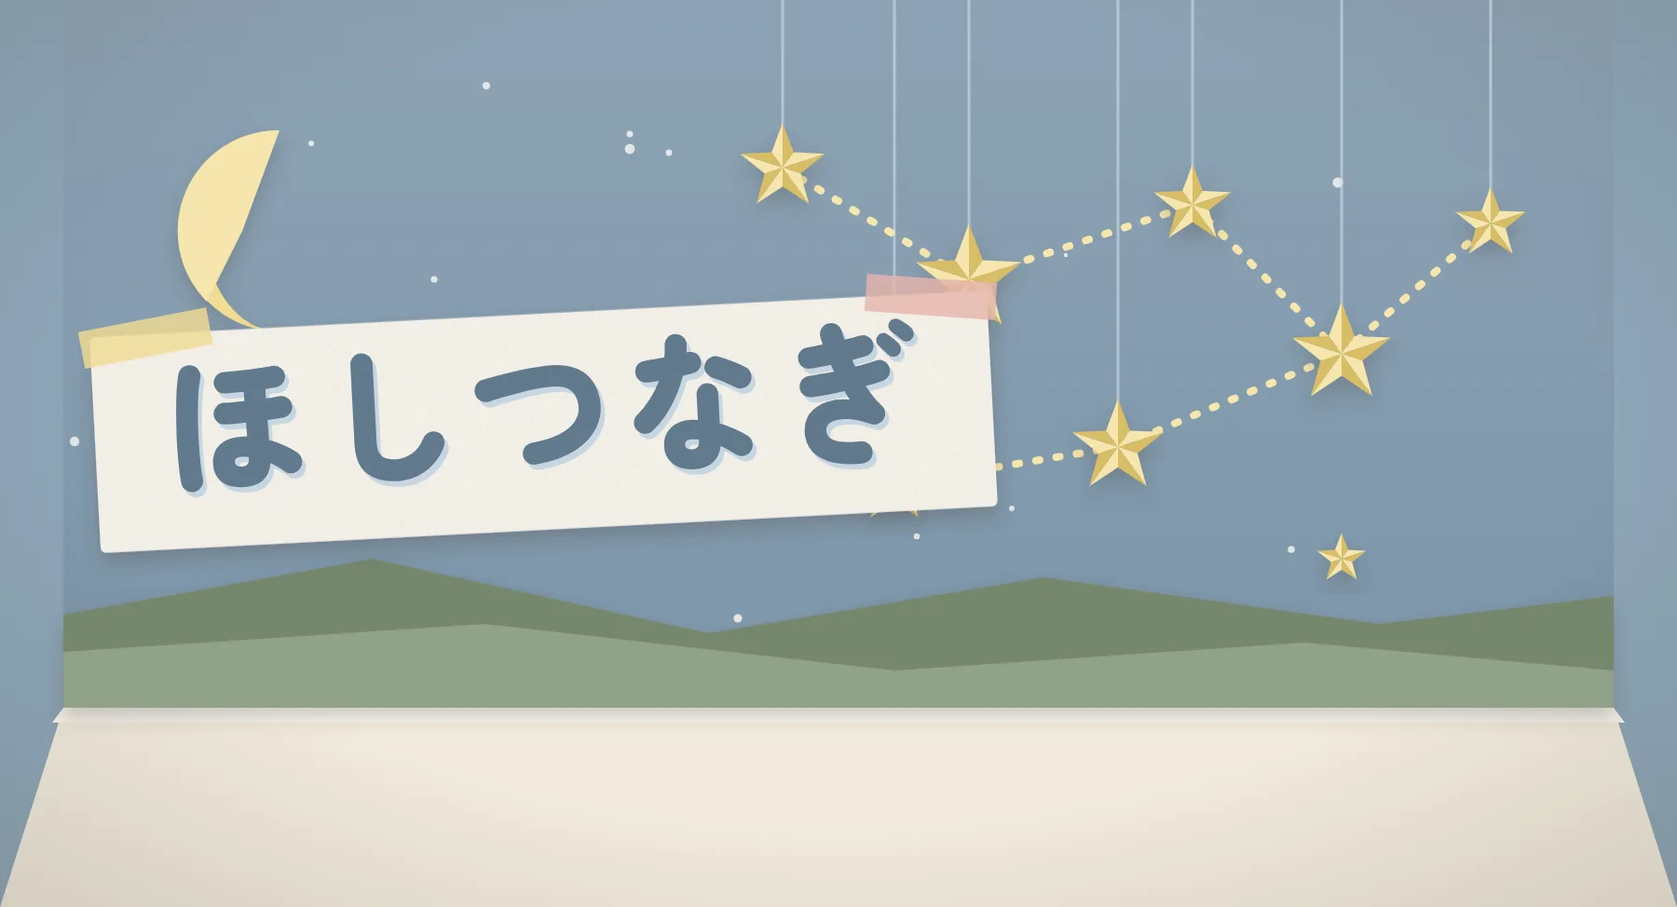
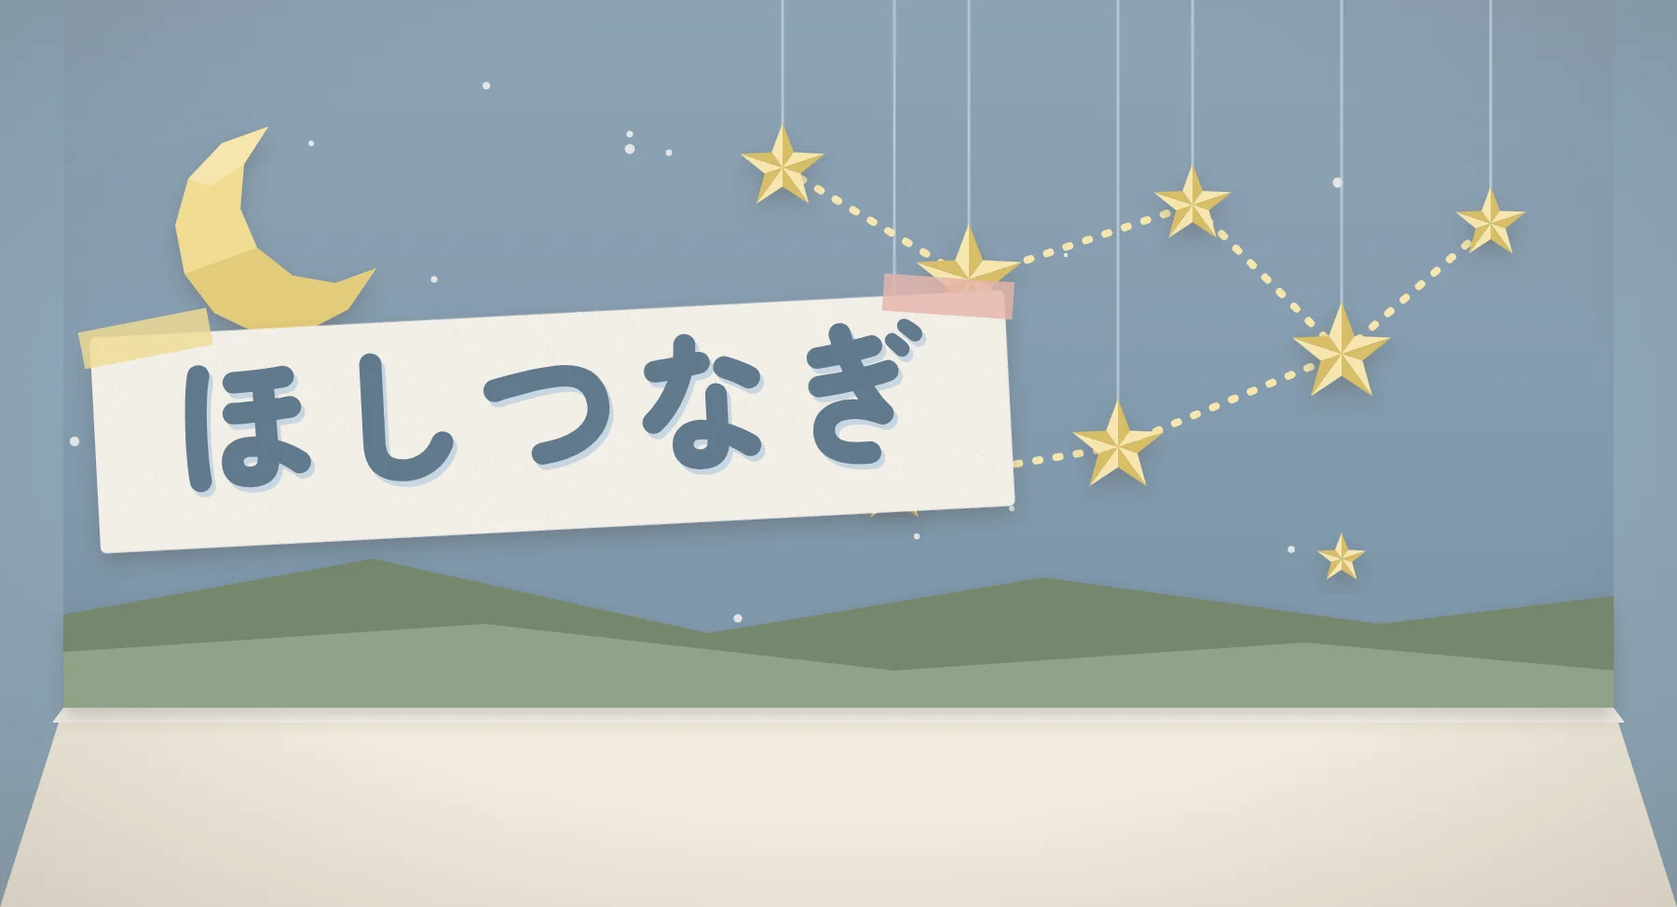
アイコン中央寄せ・つくった人ページ・地図のエリア名・ニワトリが隠れない・三日月 (#16)
* Paper cat beside gacha, striped awning, lighter animations

- Cat redrawn as flat paper polygons, sits beside the gacha; tail flicks only occasionally
- Garland replaced with a striped paper awning drawn at real width
- Removed always-on animations (background confetti, map sway, mini scenes, spot bob); footer wave runs 3 times

Claude-Session: https://claude.ai/code/session_01JDrZAnP6vo5iH3Zm12SnHF

* Owner's paper cat GIF, readable cat bubble, real-looking gacha pile, no human figure in craft scene, memo chain context

- Cat: owner's low-poly paper cat (animated webp, tail wags after a pause); bubble opens up-left above the gacha
- Gacha dome: capsules piled from the bottom with random colors, sizes and angles; black capsule color removed, muted lilac/mint/apricot added
- Craft scene: paper dolls replaced with paper-cut stars; craft/art icons lose black
- 誰かのメモ帳: replies show the previous memo and the first question (needs supabase/memo-prev.sql)

Claude-Session: https://claude.ai/code/session_01JDrZAnP6vo5iH3Zm12SnHF

* Footer: paper hills town, today's pick, gacha ticket, hanging tag links, X sticker, back-to-top chicken

Claude-Session: https://claude.ai/code/session_01JDrZAnP6vo5iH3Zm12SnHF

* Footer: remove today's pick and gacha ticket

Claude-Session: https://claude.ai/code/session_01JDrZAnP6vo5iH3Zm12SnHF

* Genre chips use paper icons and site colors; gacha result play button is the pink pill
[…]

Changed region(s): [[0.28, 0.308, 0.6222, 0.5544], [0.0933, 0.4004, 0.28, 0.5544], [0.0933, 0.1232, 0.2178, 0.3696]]

diff --git a/about.html b/about.html
@@ -25,17 +25,52 @@
 <link rel="stylesheet" href="https://fonts.googleapis.com/css2?family=Zen+Maru+Gothic:wght@500;700;900&display=swap">
 <link rel="stylesheet" href="site.css">
 <style>
-.profile{padding-top:100px}
-.profile .pic{width:92px;height:92px;margin:10px auto 14px;padding:4px;border-radius:50%;background:var(--grain),var(--white);box-shadow:var(--shadow-m);animation:drop .8s .1s var(--ease-pop) both}
-.profile .pic img{display:block;width:100%;height:100%;border-radius:50%}
+.profile{padding-top:96px;padding-bottom:110px;overflow:hidden}
+.profile .props{position:absolute;inset:0;pointer-events:none}
+.profile .props svg{position:absolute;width:var(--s);height:var(--s);left:var(--x);top:var(--y);transform:rotate(var(--r));filter:drop-shadow(0 6px 5px rgba(40,55,35,.25));animation:pop .7s calc(.25s + var(--d)) var(--ease-pop) both}
+@keyframes pop{from{opacity:0;transform:translateY(14px) scale(.4) rotate(0)}}
+.badge{position:relative;width:168px;height:168px;margin:6px auto 16px;animation:drop .8s .1s var(--ease-pop) both}
+.badge::before{content:"";position:absolute;inset:-10px;border-radius:50%;background:var(--grain),#f0db93;
+  -webkit-mask:radial-gradient(circle at 50% 50%,#000 64%,transparent 64.5%),conic-gradient(#000 0 0);
+  clip-path:polygon(50% 0,57% 6%,65% 1%,70% 8%,79% 5%,82% 13%,91% 13%,90% 22%,98% 26%,94% 34%,100% 41%,95% 48%,100% 56%,94% 62%,98% 70%,90% 75%,91% 84%,82% 85%,79% 94%,70% 91%,65% 99%,57% 93%,50% 100%,43% 93%,35% 99%,30% 91%,21% 94%,18% 85%,9% 84%,10% 75%,2% 70%,6% 62%,0 56%,5% 48%,0 41%,6% 34%,2% 26%,10% 22%,9% 13%,18% 13%,21% 5%,30% 8%,35% 1%,43% 6%);
+  box-shadow:0 10px 18px rgba(40,55,35,.3)}
+.badge img{position:relative;display:block;width:100%;height:100%;border-radius:50%;border:6px solid var(--white);box-shadow:0 4px 10px rgba(40,55,35,.25);background:#fbf3df}
+.badge .hi{position:absolute;right:-30px;top:4px;padding:3px 12px;border-radius:14px;font-size:.8rem;font-weight:900;color:var(--ink);background:var(--grain),var(--white);box-shadow:var(--shadow-s);transform:rotate(8deg);animation:pop .6s .9s var(--ease-pop) both}
 @keyframes drop{from{opacity:0;transform:translateY(-20px) scale(.8)}}
-.role{display:inline-block;margin-top:12px;font-weight:900;font-size:.86rem;color:var(--ink);padding:2px 16px;border-radius:3px;background:var(--grain),var(--pink);box-shadow:var(--shadow-s);transform:rotate(-3deg)}
-.panel .lead{font-size:1.1rem;font-weight:900;margin-bottom:6px}
-.cheer{margin-top:22px;padding:18px 20px;border-radius:6px;background:var(--grain),var(--cream);display:flex;align-items:center;flex-wrap:wrap;gap:12px 16px;box-shadow:inset 0 2px 4px rgba(60,50,35,.1)}
+.profile h1{display:flex;justify-content:center;gap:.04em}
+.profile h1 span{display:inline-block;color:var(--c);transform:rotate(var(--r))}
+.role{display:inline-block;margin-top:12px;font-weight:900;font-size:.86rem;color:var(--ink);padding:3px 18px;border-radius:3px;background:var(--grain),var(--pink);box-shadow:var(--shadow-s);transform:rotate(-3deg)}
+.letter{padding:40px 42px 34px;background:var(--grain),repeating-linear-gradient(transparent 0 35px,#dde6ee 35px 36px),var(--white);background-position:0 0,0 40px,0 0}
+.letter .stamp{position:absolute;right:22px;top:-18px;width:74px;height:84px;padding:5px;background:var(--grain),var(--white);transform:rotate(6deg);box-shadow:0 4px 8px rgba(60,45,30,.25);outline:2px dotted #fbf8f2;outline-offset:2px}
+.letter .stamp span{display:grid;place-items:center;width:100%;height:100%;background:#f0cdc6;border:2px dashed rgba(255,255,255,.8)}
+.letter .stamp img{width:52px;height:52px;object-fit:contain}
+.letter .to{font-size:.8rem;font-weight:900;color:#b07f77;letter-spacing:.1em;line-height:36px;margin:0}
+.letter p{line-height:36px;margin:0}
+.letter .lead{font-size:1.1rem;font-weight:900}
+.letter .sign{text-align:right;font-weight:900;margin-top:4px}
+.facts{display:grid;grid-template-columns:repeat(3,1fr);gap:14px;margin-top:34px;list-style:none;padding:0}
+.facts li{position:relative;padding:16px 12px 14px;border-radius:6px;text-align:center;font-weight:900;font-size:.92rem;line-height:1.4;background:var(--grain),var(--c);box-shadow:0 3px 0 rgba(90,70,45,.12),var(--shadow-s);transform:rotate(var(--r))}
+.facts li svg{display:block;width:52px;height:52px;margin:0 auto 8px;padding:8px;border-radius:50%;background:var(--grain),var(--white);box-shadow:0 2px 4px rgba(90,70,45,.15)}
+.facts li small{display:block;font-size:.7rem;font-weight:700;color:var(--sub);margin-top:2px}
+.cheer{position:relative;margin-top:26px;padding:20px 22px;border-radius:8px;background:var(--grain),#fbf3df;display:flex;align-items:center;flex-wrap:wrap;gap:12px 16px;border:2px dashed #e5c97a}
 .cheer p{margin:0;flex:1 1 220px;font-size:.92rem;color:var(--sub)}
-.cheer a{display:inline-flex;align-items:center;font-size:.9rem;font-weight:700;color:var(--ink);text-decoration:none;padding:9px 18px;border-radius:10px;background:var(--grain),var(--pink);box-shadow:inset 0 1px 0 rgba(255,255,255,.4),0 3px 0 var(--pink-d),0 8px 12px -6px rgba(60,45,30,.4);transition:transform .2s var(--ease-pop)}
-.cheer a:hover{transform:translateY(-2px) rotate(-2deg)}
-.next{display:flex;flex-wrap:wrap;justify-content:center;gap:14px;margin-top:40px}
+.pill{display:inline-flex;align-items:center;gap:6px;font-weight:900;font-size:.95rem;line-height:1;padding:13px 24px;border-radius:999px;text-decoration:none;color:#7a4740;
+  background:var(--grain),linear-gradient(180deg,#f0cdc6,#e5b4ab);box-shadow:inset 0 1px 0 rgba(255,255,255,.55),0 0 0 2px #fbf8f2,0 4px 0 2px #cf968c,0 8px 10px -2px rgba(150,90,80,.3);transition:transform .3s var(--ease-pop)}
+.pill:hover{transform:translateY(-2px) rotate(-2deg)}
+.pill.cream{color:var(--ink);background:var(--grain),var(--white);box-shadow:0 0 0 2px #fbf8f2,0 4px 0 2px #ddd2bd,0 8px 10px -2px rgba(90,70,45,.25)}
+.next{display:flex;flex-wrap:wrap;justify-content:center;gap:16px;margin-top:40px}
+@media (max-width:640px){
+  .badge{width:136px;height:136px}
+  .badge .hi{right:-22px}
+  .letter{padding:34px 22px 26px;background-position:0 0,0 34px,0 0}
+  .letter .stamp{width:60px;height:68px;right:14px}
+  .letter .stamp img{width:42px;height:42px}
+  .facts{grid-template-columns:1fr 1fr 1fr;gap:8px}
+  .facts li{font-size:.78rem;padding:12px 6px}
+  .facts li svg{width:42px;height:42px;padding:6px}
+  .facts li small{font-size:.6rem}
+}
+@media (prefers-reduced-motion:reduce){.profile .props svg,.badge,.badge .hi{animation:none}}
 </style>
 </head>
 <body>
@@ -46,25 +81,34 @@
 
 <main>
   <section class="subhero profile">
-    <figure class="pic"><img src="img/runokokko.webp" width="400" height="400" alt="ゲームを作るルノコッコ"></figure>
+    <div class="props" aria-hidden="true"><span style="display:contents"><svg style="--x:8%;--y:22%;--s:46px;--r:-12deg;--d:0s" viewBox="-50 -50 100 100"><polygon points="0,-46 12,-15 0,0" fill="#f6e6ad"/><polygon points="0,-46 0,0 -12,-15" fill="#e3c86f"/><polygon points="44,-14 12,-15 0,0" fill="#e3c86f"/><polygon points="44,-14 0,0 19,5" fill="#f6e6ad"/><polygon points="27,37 19,5 0,0" fill="#e3c86f"/><polygon points="27,37 0,0 0,16" fill="#f6e6ad"/><polygon points="-27,37 0,16 0,0" fill="#e3c86f"/><polygon points="-27,37 0,0 -19,5" fill="#f6e6ad"/><polygon points="-44,-14 -19,5 0,0" fill="#e3c86f"/><polygon points="-44,-14 0,0 -12,-15" fill="#f6e6ad"/></svg></span><span style="display:contents"><svg style="--x:16%;--y:62%;--s:50px;--r:24deg;--d:.08s" viewBox="-50 -50 100 100"><polygon points="-44,0 -31,-31 0,-44 31,-31 44,0" fill="#e5b4ab"/><polygon points="44,0 31,31 0,44 -31,31 -44,0" fill="#fbf8f2"/><polygon points="0,0 44,0 31,31" fill="#e6dece"/></svg></span><span style="display:contents"><svg style="--x:80%;--y:58%;--s:52px;--r:14deg;--d:.16s" viewBox="0 0 100 100"><path d="M10 30h22a10 10 0 1 1 18 0h22v22a10 10 0 1 1 0 18v22H50a10 10 0 1 0-18 0H10z" fill="#a9bfcf"/><path d="M50 30h22v22a10 10 0 1 1 0 18v22H50z" fill="#8ea6b8" opacity=".6"/></svg></span><span style="display:contents"><svg style="--x:84%;--y:20%;--s:44px;--r:8deg;--d:.24s" viewBox="0 0 100 100"><rect x="56" y="12" width="9" height="56" fill="#fbf8f2"/><polygon points="56,12 86,22 86,36 65,28" fill="#fbf8f2"/><ellipse cx="48" cy="72" rx="16" ry="12" fill="#fbf8f2" transform="rotate(-20 48 72)"/></svg></span><span style="display:contents"><svg style="--x:2%;--y:40%;--s:70px;--r:0deg;--d:.3s" viewBox="0 0 120 70"><polygon points="10,60 24,36 46,30 60,10 84,18 98,38 112,60" fill="#fbf8f2"/><polygon points="60,10 84,18 98,38 112,60 60,60" fill="#e6dece"/></svg></span><span style="display:contents"><svg style="--x:72%;--y:78%;--s:30px;--r:18deg;--d:.36s" viewBox="-50 -50 100 100"><polygon points="0,-46 12,-15 0,0" fill="#f0cdc6"/><polygon points="0,-46 0,0 -12,-15" fill="#cf968c"/><polygon points="44,-14 12,-15 0,0" fill="#cf968c"/><polygon points="44,-14 0,0 19,5" fill="#f0cdc6"/><polygon points="27,37 19,5 0,0" fill="#cf968c"/><polygon points="27,37 0,0 0,16" fill="#f0cdc6"/><polygon points="-27,37 0,16 0,0" fill="#cf968c"/><polygon points="-27,37 0,0 -19,5" fill="#f0cdc6"/><polygon points="-44,-14 -19,5 0,0" fill="#cf968c"/><polygon points="-44,-14 0,0 -12,-15" fill="#f0cdc6"/></svg></span><span style="display:contents"><svg style="--x:26%;--y:84%;--s:30px;--r:-30deg;--d:.42s" viewBox="-50 -50 100 100"><polygon points="-44,0 -31,-31 0,-44 31,-31 44,0" fill="#a9bfcf"/><polygon points="44,0 31,31 0,44 -31,31 -44,0" fill="#fbf8f2"/><polygon points="0,0 44,0 31,31" fill="#e6dece"/></svg></span><span style="display:contents"><svg style="--x:74%;--y:8%;--s:60px;--r:0deg;--d:.2s" viewBox="0 0 120 70"><polygon points="10,60 24,36 46,30 60,10 84,18 98,38 112,60" fill="#fbf8f2"/><polygon points="60,10 84,18 98,38 112,60 60,60" fill="#e6dece"/></svg></span></div>
+    <figure class="badge"><img src="img/profile.webp" width="480" height="480" alt="picoruno. の紙のニワトリ"><span class="hi">やあ！</span></figure>
     <p class="eyebrow">WHO MADE THIS?</p>
-    <h1>ルノコッコ</h1>
+    <h1 aria-label="ルノコッコ"><span aria-hidden="true" style="--c:#fbf8f2;--r:-4deg">ル</span><span aria-hidden="true" style="--c:#f0db93;--r:3deg">ノ</span><span aria-hidden="true" style="--c:#f0cdc6;--r:-2deg">コ</span><span aria-hidden="true" style="--c:#c7d6e1;--r:4deg">ッ</span><span aria-hidden="true" style="--c:#fbf8f2;--r:-3deg">コ</span></h1>
     <span class="role">個人ゲーム開発者</span>
     <svg class="edge" viewBox="0 0 1440 28" preserveAspectRatio="none" aria-hidden="true"><path d="M0 28 L0 14 L40 4 L80 16 L120 6 L160 18 L200 8 L240 16 L280 4 L320 14 L360 6 L400 18 L440 8 L480 14 L520 4 L560 16 L600 6 L640 18 L680 8 L720 14 L760 4 L800 16 L840 6 L880 18 L920 8 L960 14 L1000 4 L1040 16 L1080 6 L1120 18 L1160 8 L1200 14 L1240 4 L1280 16 L1320 6 L1360 18 L1400 8 L1440 14 L1440 28Z"/></svg>
   </section>
 
   <div class="sheet">
-    <article class="panel rise">
+    <article class="panel letter rise">
+      <span class="stamp" aria-hidden="true"><span><img src="img/chick.webp" alt=""></span></span>
+      <p class="to">あそびにきてくれた あなたへ</p>
       <p class="lead">暇つぶしになるゲームをひとりでこつこつ作っています。</p>
       <p>感想をもらえると、とてもよろこびます。</p>
+      <p class="sign">ルノコッコより</p>
       <div class="cheer">
         <p>もし応援していただけたら、とても励みになります。</p>
-        <a data-ofuse-widget-button href="https://ofuse.me/o?uid=227807" data-ofuse-id="227807" data-ofuse-style="rectangle" target="_blank" rel="noopener">OFUSEで応援を送る</a><script async src="https://ofuse.me/assets/platform/widget.js" charset="utf-8"></script>
+        <a class="pill" href="https://ofuse.me/o?uid=227807" target="_blank" rel="noopener">OFUSEで応援する ♡</a>
       </div>
     </article>
+    <ul class="facts" aria-label="picoruno. のこと">
+      <li style="--c:#f0cdc6;--r:-2deg"><svg viewBox="0 0 60 60"><rect x="12" y="22" width="36" height="28" fill="#e5b4ab"/><rect x="30" y="22" width="18" height="28" fill="#cf968c"/><rect x="8" y="14" width="44" height="10" fill="#f0cdc6"/><rect x="27" y="14" width="6" height="36" fill="#f0db93"/><path d="M30 14c-8-12-18-4-10 0M30 14c8-12 18-4 10 0" fill="none" stroke="#f0db93" stroke-width="4"/></svg>ぜんぶ無料<small>お金はかかりません</small></li>
+      <li style="--c:#f6e6ad;--r:1.5deg"><svg viewBox="0 0 60 60"><polygon points="34,4 12,34 28,34 22,56 48,22 32,22" fill="#f0db93"/><polygon points="34,4 28,34 22,56 32,22" fill="#d8bd66"/></svg>すぐあそべる<small>インストールなし</small></li>
+      <li style="--c:#c7d6e1;--r:-1deg"><svg viewBox="0 0 60 60"><rect x="6" y="18" width="34" height="26" rx="3" fill="#a9bfcf"/><polygon points="40,26 54,18 54,44 40,36" fill="#8ea6b8"/><circle cx="16" cy="12" r="7" fill="#c7d6e1"/><circle cx="31" cy="12" r="7" fill="#c7d6e1"/><circle cx="18" cy="31" r="3" fill="#e5b4ab"/></svg>配信・実況OK<small>収益化もどうぞ</small></li>
+    </ul>
     <div class="next">
-      <a class="btn sage" href="./#games">ゲームで遊ぶ ▶</a>
-      <a class="btn white" href="https://x.com/picoruno" target="_blank" rel="noopener">X で @picoruno</a>
+      <a class="pill" href="./#games">ゲームで遊ぶ ▶</a>
+      <a class="pill cream" href="https://x.com/picoruno" target="_blank" rel="noopener">X で @picoruno</a>
     </div>
   </div>
 </main>

diff --git a/index.html b/index.html
@@ -166,6 +166,7 @@ svg{display:block;overflow:visible}
 .spot .ic svg{position:relative;width:100%;height:100%;filter:drop-shadow(0 0 0 #fbf8f2) drop-shadow(1.5px 0 0 #fbf8f2) drop-shadow(-1.5px 0 0 #fbf8f2) drop-shadow(0 -1.5px 0 #fbf8f2) drop-shadow(0 4px 3px rgba(80,60,30,.3))}
 .spot .sign{position:relative;margin-top:10px;white-space:nowrap;font-weight:900;font-size:.8rem;line-height:1.5;padding:2px 10px;border-radius:3px;background:var(--grain),var(--white);box-shadow:0 1px 0 #d9cdb5,0 3px 5px rgba(80,60,30,.2);transform:rotate(var(--r,0deg));transition:background .2s,transform .3s var(--ease-pop)}
 .spot .sign b{margin-left:5px;font-size:.68rem;color:var(--sub)}
+.spot .sign small{display:block;margin:-1px -4px 0;font-size:.6rem;font-weight:800;line-height:1.4;color:#b07f77;letter-spacing:.02em;text-align:center}
 .spot:hover .ic,.spot:focus-visible .ic{transform:translateY(-5px) rotate(-5deg)}
 .spot[aria-pressed="true"] .ic{transform:translateY(-6px)}
 .spot[aria-pressed="true"] .sign{background:var(--grain),var(--butter);transform:rotate(0) scale(1.06)}
@@ -179,7 +180,7 @@ svg{display:block;overflow:visible}
 .spot.has-mini .sign{margin-top:12px}
 .spot.has-mini:hover .ic,.spot.has-mini:focus-visible .ic{transform:translateY(-5px) rotate(-2deg)}
 @media (max-width:639px){.spot.has-mini{--ic:40px}.spot .ic.mini{width:92px;height:40px}}
-@media (max-width:639px){.spot{--ic:42px}.spot .sign{font-size:.72rem;padding:1px 8px;margin-top:9px}.board .tape{width:64px;height:20px}}
+@media (max-width:639px){.spot{--ic:42px}.spot .sign{font-size:.72rem;padding:1px 8px;margin-top:9px}.spot .sign small{font-size:.52rem}.board .tape{width:64px;height:20px}}
 
 .walker{position:absolute;left:0;top:0;width:0;height:0;z-index:4;pointer-events:none}
 .walker .chick{position:absolute;left:-38px;bottom:-6px;width:76px;transform-origin:50% 100%;transform:scaleX(var(--dir,1))}
@@ -308,7 +309,7 @@ svg{display:block;overflow:visible}
 .genres{position:relative;display:flex;flex-wrap:wrap;gap:6px;list-style:none;margin:10px 4px 0;padding:0}
 .genre{display:inline-flex;align-items:center;gap:5px;padding:2px 10px 2px 3px;border-radius:12px;background:var(--grain),#fbf8f2;font-size:.7rem;font-weight:800;line-height:1.6;white-space:nowrap;color:var(--ink);box-shadow:0 2px 0 rgba(90,70,45,.12),0 3px 6px -2px rgba(90,70,45,.2)}
 .genre i{display:grid;place-items:center;width:20px;height:20px;flex:none;border-radius:50%;background:var(--g)}
-.genre i svg{display:block;width:15px;height:15px}
+.genre i svg{display:block;width:13px;height:13px;overflow:visible}
 .card .foot{display:flex;align-items:center;justify-content:space-between;gap:8px;margin:auto 18px 0 4px;padding-top:14px}
 .stats{position:relative;z-index:2;display:flex;align-items:center;gap:8px;font-size:.8rem;font-weight:700}
 .stat{display:inline-flex;align-items:center;gap:4px;padding:3px 11px;border-radius:999px;background:var(--cream)}
@@ -431,7 +432,7 @@ svg{display:block;overflow:visible}
   .card .genres{margin-top:5px;gap:4px}
   .card .genre{font-size:.6rem;padding:0 6px 0 4px}
   .card .genre i{width:16px;height:16px}
-  .card .genre i svg{width:12px;height:12px}
+  .card .genre i svg{width:11px;height:11px}
   .card .foot{padding-top:6px;margin-right:12px}
   .card .play{padding:7px 11px;font-size:.74rem}
   .like{min-height:32px;padding:2px 10px}
@@ -694,7 +695,7 @@ const GENRES = {
   typing:  { icon:"⌨", label:"タイピング",       bg:"#c7d6e1" },
   sim:     { icon:"🏪", label:"シミュレーション", bg:"#d5dfcf" },
   music:   { icon:"🎵", label:"音楽",             bg:"#ddd4e6" },
-  craft:   { icon:"✂", label:"クリエイティブ",   bg:"#f6e6ad" },
+  craft:   { icon:"✂", label:"クリエイティブ",   bg:"#c7d6e1" },
   relax:   { icon:"🍵", label:"癒し",             bg:"#d5dfcf" },
 };
 /* 前の細かいカテゴリの URL（?genre=quiz など）は、まとめた先に読みかえる */
@@ -822,10 +823,19 @@ const ICONS = {
 };
 
 /* ===== ジャンルアイコンの並び ===== */
+/* ジャンルのラベル用：アイコンの絵の部分だけを切り出して、丸の真ん中にくるようにする */
+const GICON = (()=>{ const out={}, box=document.createElement("div");
+  box.style.cssText="position:absolute;left:-9999px;top:0;width:60px;height:60px;visibility:hidden"; document.body.appendChild(box);
+  Object.keys(GENRES).forEach(k=>{ const src=ICONS[k]; if(!src) return; box.innerHTML=src; const sv=box.firstElementChild;
+    let b; try{ b=sv.getBBox(); }catch(e){} 
+    if(!b || !b.width){ out[k]=src; return; }
+    const m=Math.max(b.width,b.height)*1.08, x=b.x+b.width/2-m/2, y=b.y+b.height/2-m/2;
+    out[k]=src.replace(/viewBox="[^"]*"/,`viewBox="${x.toFixed(1)} ${y.toFixed(1)} ${m.toFixed(1)} ${m.toFixed(1)}"`); });
+  box.remove(); return out; })();
 function genreList(keys){
   const items=(keys||[]).map(k=>GENRES[k]).filter(Boolean);
   if(!items.length) return "";
-  return `<ul class="genres" aria-label="ジャンル">${(keys||[]).filter(k=>GENRES[k]).map(k=>{ const x=GENRES[k]; return `<li class="genre" style="--g:${x.bg}"><i aria-hidden="true">${ICONS[k]||""}</i>${x.label}</li>`; }).join("")}</ul>`;
+  return `<ul class="genres" aria-label="ジャンル">${(keys||[]).filter(k=>GENRES[k]).map(k=>{ const x=GENRES[k]; return `<li class="genre" style="--g:${x.bg}"><i aria-hidden="true">${GICON[k]||""}</i>${x.label}</li>`; }).join("")}</ul>`;
 }
 
 /* ===== カード ===== */
@@ -924,7 +934,7 @@ const POP = (()=>{
       poly(q([[44,2],[60,4],[50,16]]),c(k,1))+
       `<circle cx="${x+24*s}" cy="${y-6*s}" r="${2.6*s}" fill="${c("char",0)}"/><ellipse cx="${x+29*s}" cy="${y+3*s}" rx="${5*s}" ry="${2.5*s}" fill="${c("pink",0)}" opacity=".85"/>`+
       `<path d="M${x+40*s} ${y-30*s}v${-16*s}M${x+40*s} ${y-30*s}q${-4*s} ${-12*s} ${-14*s} ${-14*s}M${x+40*s} ${y-30*s}q${4*s} ${-12*s} ${14*s} ${-14*s}" fill="none" stroke="#fff" stroke-width="${3*s}" stroke-linecap="round"/>`);},
-    moon:(x,y,r)=>`<g class="hover"><path d="M${x} ${y-r}A${r} ${r} 0 1 0 ${x} ${y+r}A${r*.72} ${r} 0 1 1 ${x} ${y-r}Z" fill="${c("butter",0)}"/><path d="M${x} ${y-r}A${r} ${r} 0 0 0 ${x-r*.72} ${y+r*.68}L${x-r*.3} ${y}Z" fill="${c("butter",2)}"/></g>`,
+    moon:(x,y,r)=>{ const f=a=>a.map(([u,v])=>`${(x+u*r).toFixed(1)},${(y+v*r).toFixed(1)}`).join(" "); return `<g class="hover"><polygon points="${f([[-0.107, -1.0], [-0.554, -0.839], [-0.875, -0.5], [-1.0, -0.054], [-0.911, 0.411], [-0.625, 0.786], [-0.214, 0.982], [0.25, 0.964], [0.661, 0.75], [0.929, 0.357], [0.536, 0.5], [0.125, 0.429], [-0.214, 0.161], [-0.375, -0.214], [-0.339, -0.643]])}" fill="${c("butter",0)}"/><polygon points="${f([[-0.911, 0.411], [-0.625, 0.786], [-0.214, 0.982], [0.25, 0.964], [0.661, 0.75], [0.929, 0.357], [0.536, 0.5], [0.125, 0.429], [-0.214, 0.161]])}" fill="${c("butter",1)}" opacity=".55"/><polygon points="${f([[-0.107, -1.0], [-0.554, -0.839], [-0.875, -0.5], [-0.661, -0.429], [-0.339, -0.643]])}" fill="${c("butter",2)}"/></g>`; },
     island:(x,y,w,k="sage",d=0,body="")=>{const h=w*.5;
       return G("hover",d,body+poly([[x-w/2,y],[x+w/2,y],[x+w*.28,y+h*.5],[x+w*.05,y+h]],c("cream",1))+poly([[x-w/2,y],[x+w*.05,y+h],[x-w*.2,y+h*.55]],c("cream",0))+
       poly([[x-w/2-4,y-8],[x+w/2+4,y-8],[x+w/2,y+2],[x-w/2,y+2]],c(k,0))+poly([[x-w/2-4,y-8],[x+w/2+4,y-8],[x+w/2-6,y-13],[x-w/2+6,y-13]],c(k,2)));},
@@ -1090,8 +1100,10 @@ const POP = (()=>{
   document.getElementById("popBack").addEventListener("click",()=>{ hide(); board.querySelector('.spot[aria-pressed="true"]')?.focus({preventScroll:true}); });
   document.getElementById("popGo").addEventListener("click",e=>{ e.preventDefault(); hide(); document.getElementById("games").scrollIntoView({behavior:RM?"auto":"smooth",block:"start"}); });
   addEventListener("keydown",e=>{ if(e.key==="Escape") hide(); });
-  return {show,hide,mini,get open(){return open}};
+  return {show,hide,mini,name:g=>(SCENES[g]||SCENES[""]).name,get open(){return open}};
 })();
+/* 地図のかんばんに、その場所の名前（パズルの浮き島など）も書く */
+tiles.forEach(t=>{ const sg=t.querySelector(".sign"); if(sg && !sg.querySelector("small")) sg.insertAdjacentHTML("afterbegin",`<small>${POP.name(t.dataset.genre||"")}</small>`); });
 /* 地図の各場所に、そのカテゴリの小さな世界を置いておく */
 tiles.forEach((t,i)=>{ const ic=t.querySelector(".ic"); t.insertAdjacentHTML("afterbegin",`<i class="no">${i+1}</i>`); ic.classList.add("mini"); ic.innerHTML=POP.mini(t.dataset.genre); t.classList.add("has-mini"); });
 /* ===== カテゴリ・キーワードでしぼりこむ ===== */
@@ -1201,7 +1213,7 @@ function pointAt(d){
 /* ニワトリは、えらんだ場所のすぐ手前の道に立つ */
 const restD=i=>MAP.spotD[i]-(MAP.sp?58:86);
 const WP={x:0,y:0};
-function setXY(x,y){ WP.x=x; WP.y=y; walker.style.left=x+"px"; walker.style.top=y+"px"; }
+function setXY(x,y){ const h=MAP.sp?32:42; x=Math.max(h,Math.min(MAP.W-h,x)); /* 地図のはしで切れないように */ WP.x=x; WP.y=y; walker.style.left=x+"px"; walker.style.top=y+"px"; }
 function placeWalker(t){ cancelAnimationFrame(WALK.raf); walker.classList.remove("walking"); const [x,y]=pointAt(restD(tiles.indexOf(t))); setXY(x,y); walker.style.setProperty("--dir",1); }
 function chirp(text){ const r=WP.x/MAP.W; chickSay.style.setProperty("--bx", r<.25?"-14%":r>.75?"-86%":"-50%"); chickSay.textContent=text; chickSay.classList.add("on"); clearTimeout(chirp.t); chirp.t=setTimeout(()=>chickSay.classList.remove("on"),1800); }
 /* 遠くても待たせないよう、まっすぐぴょんぴょん跳んで向かう（最大0.6秒） */
